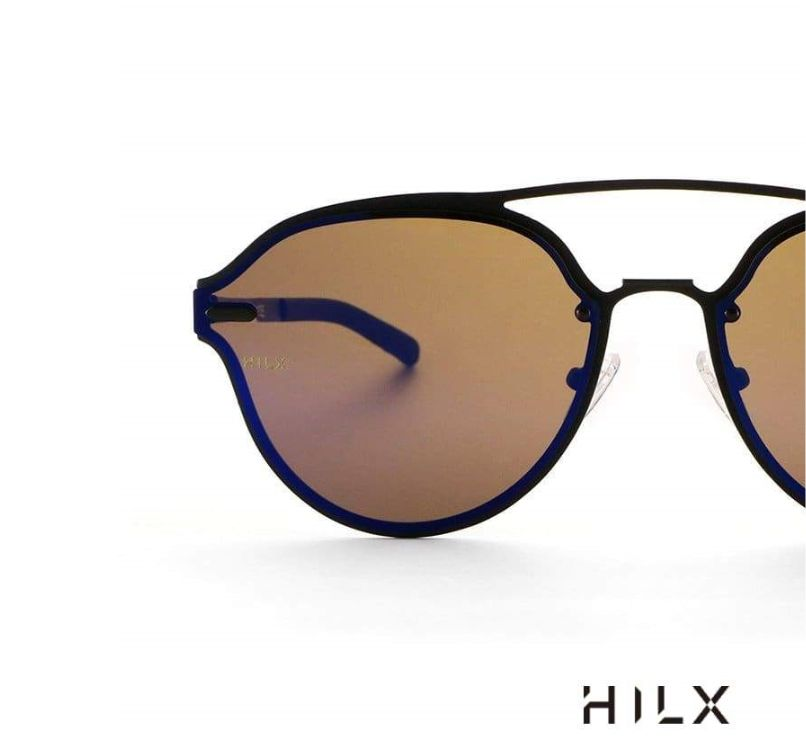
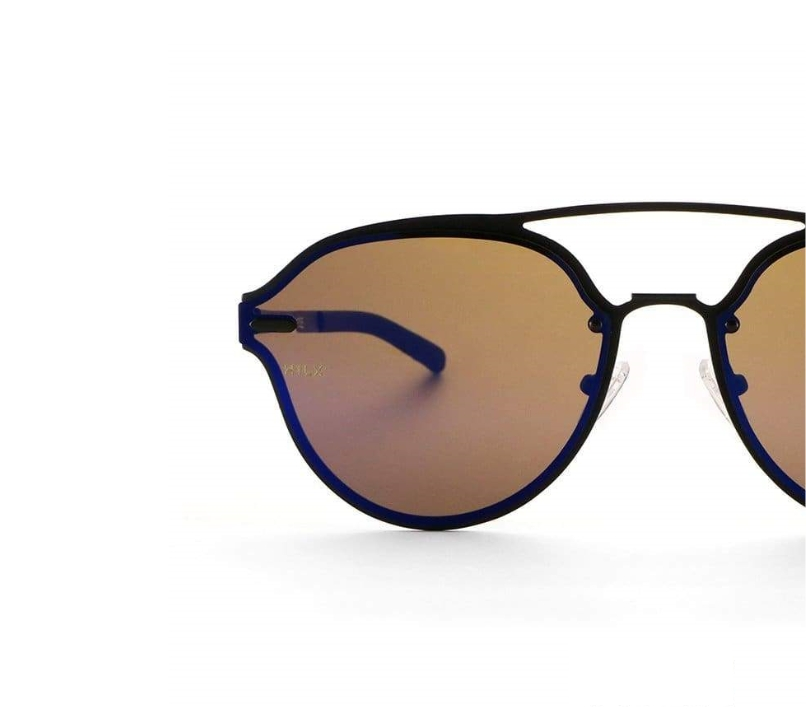
Home page images fixed

Changed region(s): [[0.2171, 0.2172, 1.0, 0.7757], [0.7134, 0.9309, 0.8995, 0.9929]]

diff --git a/index.html b/index.html
@@ -48,6 +48,7 @@
       <li><a href="/html/checkout.html">Check Out</a></li>
       <li><a href="/html/payment-method.html">Payment Method</a></li>
       <li><a href="/html/warranty.html">Warranty</a></li>
+      <li><a href="/html/contactus.html">Contact</a></li>
       <li><a href="/html/standard-default.html">Standard</a></li>
     </ul>
     

diff --git a/scss/media.scss b/scss/media.scss
@@ -465,7 +465,7 @@
   //newsletter cta ends***
 
   //home page starts here
-  .where-will-your-adv  {  
+  .where-will-your-adv {  
     .section-heading {
       max-width: 300px;
       margin-bottom: 30px;
